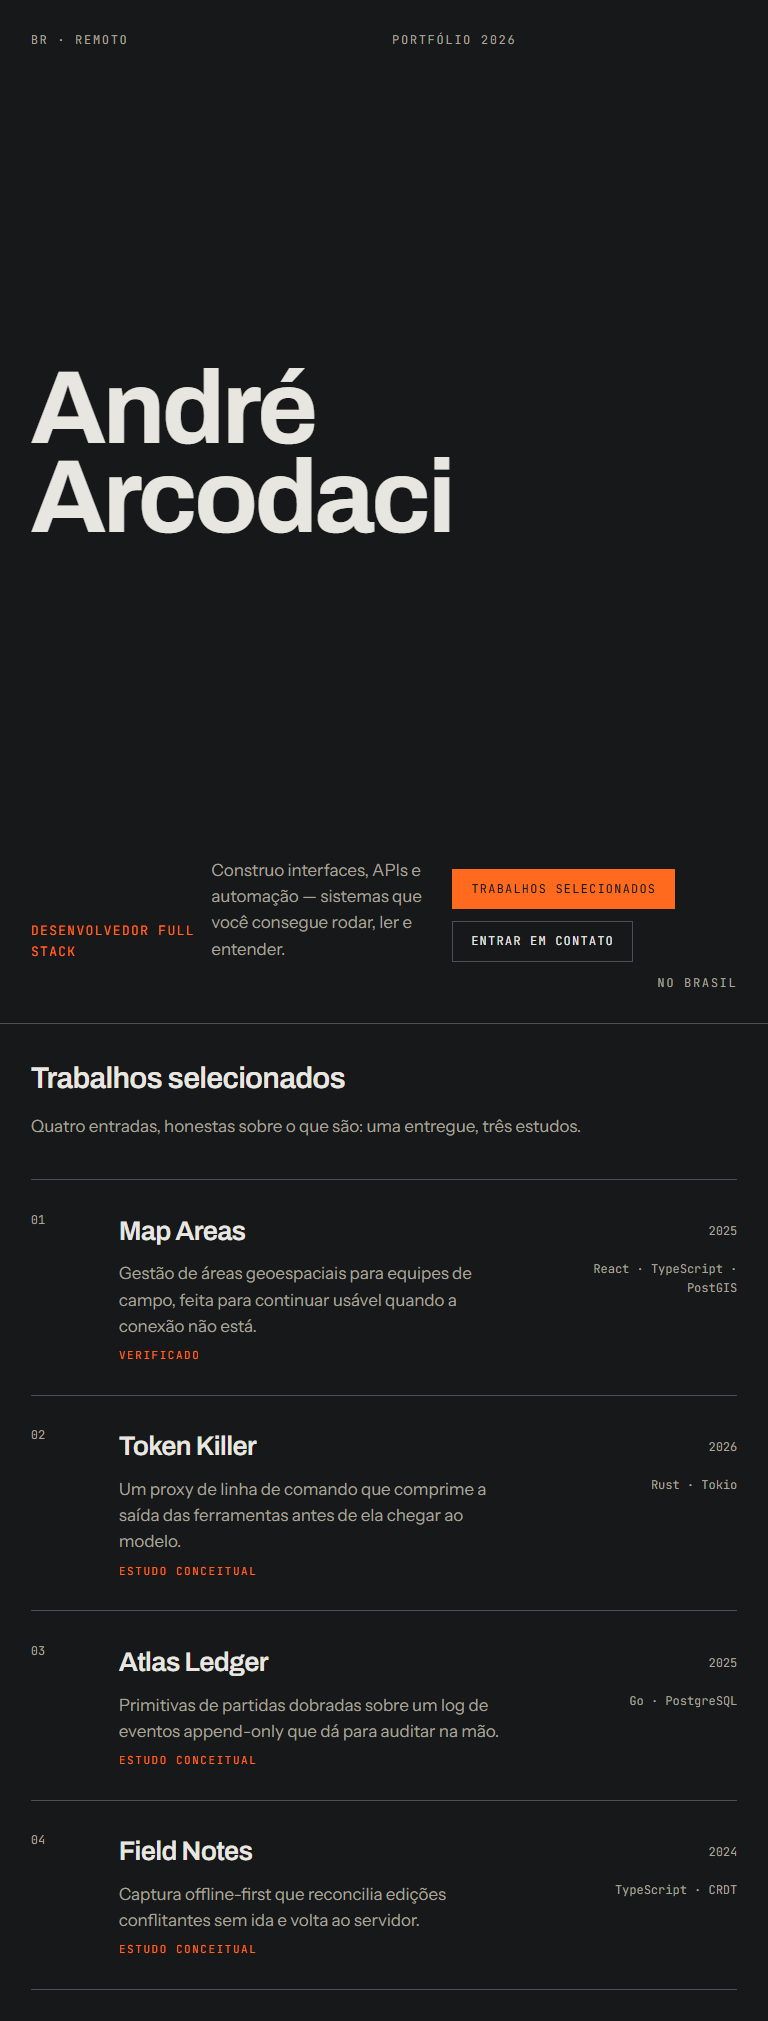
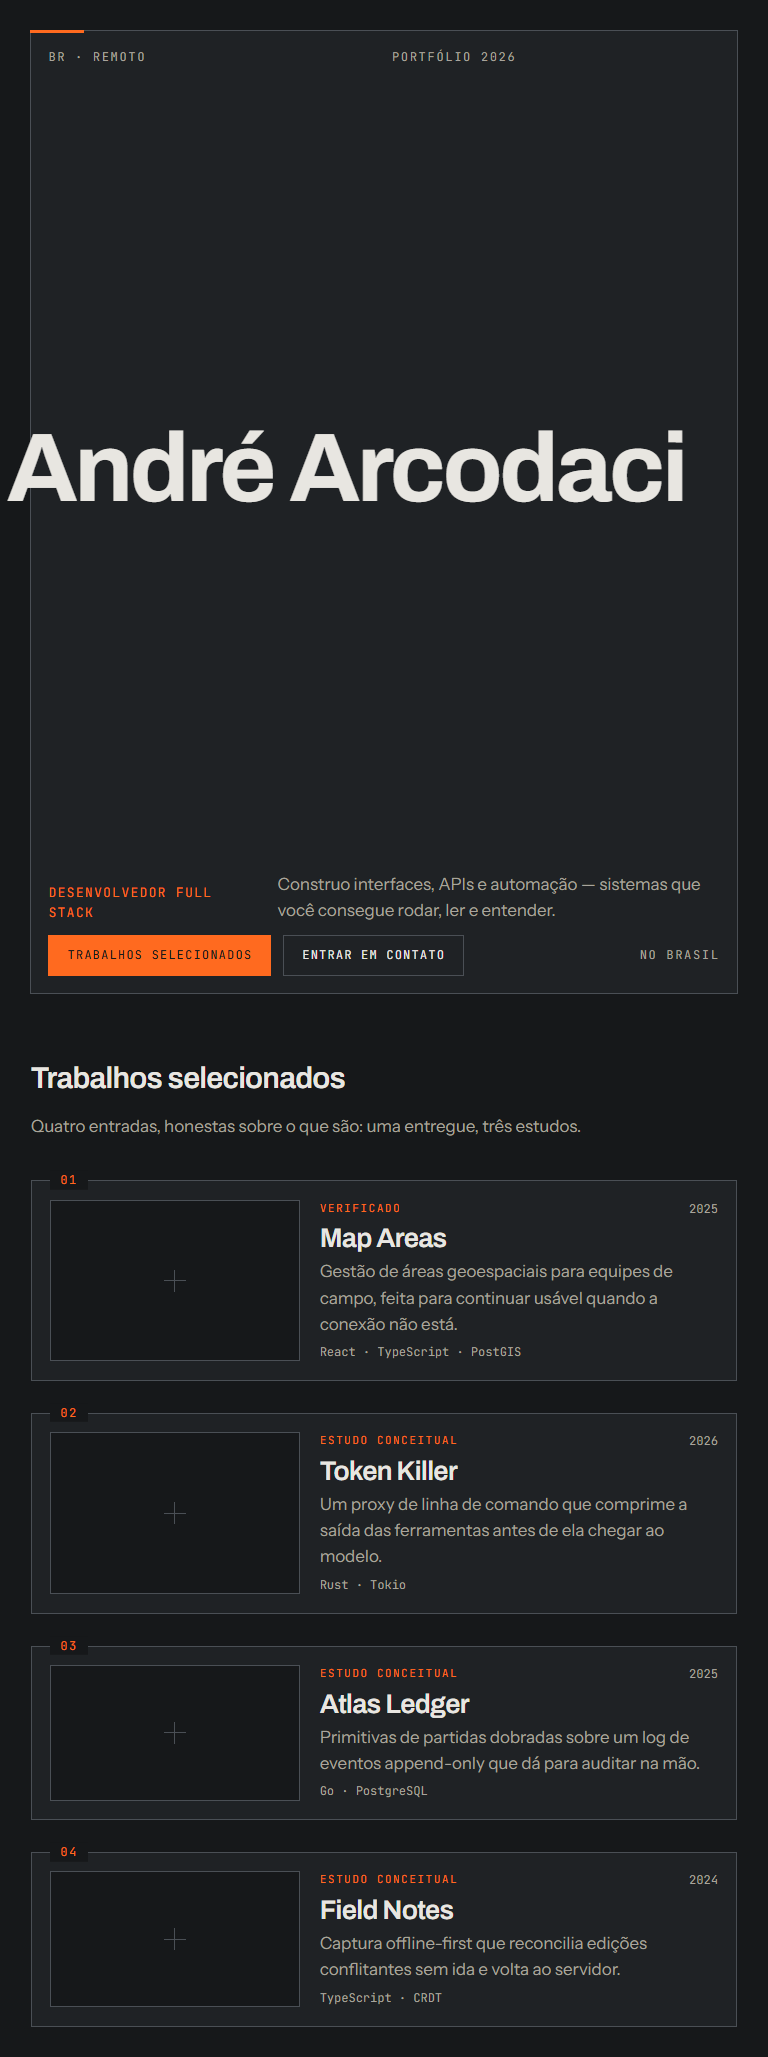
docs: acertar READMEs, lista de desmonte e as 18 capturas
F6: o README afirmava que no comp 01 o nome sangra a moldura esquerda, mas o
gesto era um no-op matematico num elemento sem fundo nem borda. A descricao do
comp 01 foi reescrita para a composicao que existe agora, e o 02 passou a usar
a superficie que o README ja publicava.

F7: a lista de desmonte prometia apagar a pasta, as fontes perdedoras e a
entrada em tsconfig.app.json. Faltavam playwright.comps.config.ts, os scripts
comps e comps:capture, o exclude em vite.config.ts e o que F1 mexeu nos dois
tsconfigs. Todos entraram.

F3: a secao de contraste passa a registrar o modo plano, o que ele nao mede e
os valores do pior caso iluminado medidos a mao -- 5,61:1 no centro da luz do
hero, 5,90:1 no topo do gradiente da placa.

M1: a linha do dossie sobre molduras que pedem imagem virou verdade; a tabela
de comparacao ganhou a linha de composicao dos trabalhos, que e onde os tres
comps agora se separam.

M2: as linhas de paleta do comp 02 no plano estavam na paleta creme original;
o codigo entrega manila ha varios commits.

M6: o limite da varredura de static.test.ts esta registrado no proprio teste.

As 18 capturas foram regravadas com pnpm comps:capture depois da recomposicao.

diff --git a/design/comps/static.test.ts b/design/comps/static.test.ts
@@ -11,6 +11,14 @@ const COMPS_DIR = join(process.cwd(), 'design', 'comps')
 const FORBIDDEN = /(^|[\s;{])(-[a-z]+-)?(animation|transition)(-[a-z-]+)?\s*:/
 
 describe('comps são estáticos', () => {
+  /**
+   * Limites conhecidos desta varredura, para quem ler depois não achar que a
+   * cobertura é total: ela olha só `design/comps/*.css`. Fica de fora o
+   * `<style>` inline de `index.html`, qualquer CSS em subdiretório, e
+   * `el.style.animation` atribuído por JS. A trava complementar está em
+   * `checks/comps.spec.ts`, que roda `document.getAnimations()` na página
+   * montada e pega o que escapar daqui.
+   */
   const files = readdirSync(COMPS_DIR).filter((name) => name.endsWith('.css'))
 
   it('encontra ao menos um CSS de comp', () => {

diff --git a/design/comps/README.md b/design/comps/README.md
@@ -4,8 +4,19 @@ Três composições estáticas do primeiro viewport para decidir D1 (metáfora
 visual) e D2 (paleta e tipografia). Mesma copy nos três, servida por
 `content.ts`, para que a comparação isole a composição.
 
-Esta pasta é apagada ao fim da Fase 2, junto com as `devDependencies` de fontes
-perdedoras e a entrada `design/comps` em `tsconfig.app.json`.
+Esta pasta é apagada ao fim da Fase 2. O desmonte não é só apagar a pasta —
+estas edições permanentes no repositório saem junto:
+
+- as `devDependencies` de fontes perdedoras em `package.json`;
+- os scripts `comps` e `comps:capture` em `package.json`;
+- `playwright.comps.config.ts`;
+- o exclude `'**/design/comps/checks/**'` em `vite.config.ts`;
+- a entrada `design/comps` no `"include"` e o `"exclude"` de
+  `design/comps/static.test.ts` em `tsconfig.app.json`;
+- a entrada `design/comps/static.test.ts` no `"include"` de
+  `tsconfig.node.json`;
+- as 18 capturas e o `README.md` de `docs/gate-1/`, se a decisão já estiver
+  registrada em `docs/DESIGN_DECISIONS.md`.
 
 ## Como ver
 
@@ -15,35 +26,44 @@ pnpm dev
 ```
 
 `?locale=pt` troca o idioma. `?chrome=0` esconde a barra de desenvolvimento.
+`?flat=1` liga o modo plano — ver a seção de contraste.
 
 ## Como verificar
 
 ```bash
-pnpm comps
+pnpm comps          # só as verificações; não escreve nada na árvore
+pnpm comps:capture  # regrava as 18 capturas em docs/gate-1/
 ```
 
-Roda, para os três comps × três viewports × dois idiomas: ausência de overflow
-horizontal, ausência de animação declarada, contraste WCAG AA. Também regrava
-as capturas em `docs/gate-1/`.
+`pnpm comps` roda, para os três comps × três viewports × dois idiomas:
+ausência de overflow horizontal no documento **e em cada `[data-region]`**,
+ausência de animação declarada, carregamento efetivo da tipografia display de
+cada comp, e contraste WCAG AA sem nenhum par deixado por medir.
 
 ## O que cada comp propõe
 
 ### 01 — Inspection Slot
 
-Bancada de inspeção. Superfície escura com recortes emoldurados; o nome sangra
-a moldura esquerda; os projetos são gavetas numeradas.
+Bancada de inspeção. O hero é uma abertura emoldurada recortada na chapa, e o
+nome atravessa a moldura até a borda da página. Cada projeto é apresentado
+dentro da sua própria abertura: moldura visível, interior em `--surface`, um
+recorte escuro com marca de registro esperando a mídia, e o número cravado na
+moldura como etiqueta. Em 1200px as aberturas viram duas colunas e a seção se
+lê como folha de contato.
 
 - **Paleta:** `#16181A` fundo · `#1F2225` superfície · `#E8E6E1` tinta ·
   `#A8A49C` tinta suave · `#4A4F55` filete · `#FF6A1F` acento
 - **Tipografia:** Archivo Variable · Instrument Sans Variable · JetBrains Mono Variable
 - **Na Fase 3 se moveria:** a moldura do recorte se abriria no hover de cada
-  gaveta, revelando a mídia do projeto por trás; o número da gaveta deslizaria
-  junto. Nada disso está implementado aqui.
+  abertura, revelando a mídia do projeto por trás; a etiqueta numerada
+  deslizaria junto. Nada disso está implementado aqui.
 
 ### 02 — Editorial Rolodex
 
-Arquivo editorial. Papel tipo manila, margem larga, medida curta; hero puramente
-tipográfico; projetos como lâminas de índice com o número recuado na margem.
+Arquivo editorial. Papel tipo manila, margem larga, medida curta; hero
+puramente tipográfico; projetos como lâminas de índice com o número recuado na
+margem. A folha de índice usa `--surface`, um papel mais claro que a capa:
+passar do hero para os trabalhos é virar a página.
 
 - **Paleta:** `#E8DCC0` fundo · `#F2EAD6` superfície · `#16130F` tinta ·
   `#5A534A` tinta suave · `#A89771` filete · `#A32114` acento
@@ -68,3 +88,24 @@ como placas suspensas, deslocadas alternadamente, com luz de borda.
 
 Todos os pares de texto foram medidos e passam WCAG AA (≥ 4.5:1 para corpo).
 Cor nova só entra depois de medida — `pnpm comps` falha se não passar.
+
+**Modo plano (`?flat=1`).** O axe não sabe compor um gradiente com o que está
+atrás e devolve o nó como `incomplete` em vez de medi-lo. Antes disso o comp 03
+passava no portão de contraste com 0 violations e **os 32 nós de texto por
+medir**. Sob `?flat=1` o harness marca o documento com `data-flat` e cada comp
+troca as suas camadas de gradiente pela cor sólida de base; o spec então exige
+`violations` **e** `incomplete` vazios. O modo plano existe só para a trava: as
+capturas do dossiê e a visualização normal continuam com os gradientes.
+
+**O que o modo plano não mede, medido à mão.** As camadas de luz do comp 03
+clareiam o fundo sob o texto, e o pior caso é sempre o ponto mais claro:
+
+| camada | fundo efetivo | tinta suave `#949CA6` | tinta `#F0F2F5` |
+|---|---|---|---|
+| centro do `radial-gradient` do hero, `rgb(175 199 255 / 14%)` sobre `#08090B` | `#1F242D` | 5,61:1 | 13,89:1 |
+| topo do `linear-gradient` da placa, `rgb(175 199 255 / 6%)` sobre `#121519` | `#1B2027` | 5,90:1 | 14,60:1 |
+| superfície sólida da placa (o que o modo plano mede) | `#121519` | 6,60:1 | 16,32:1 |
+| fundo puro | `#08090B` | 7,18:1 | 17,76:1 |
+
+Ou seja: a luz reduz o contraste, mas o pior par iluminado continua em 5,61:1,
+acima do mínimo de 4,5:1 para corpo. A camada de luz foi medida, não contornada.

diff --git a/docs/superpowers/plans/2026-10-26-fase-0-comps-comparativos.md b/docs/superpowers/plans/2026-10-26-fase-0-comps-comparativos.md
@@ -1278,7 +1278,7 @@ Create `design/comps/02-editorial-rolodex.html` — idêntico ao Comp 01, com qu
 
 **Conceito — Arquivo editorial / Rolodex.** Papel, não tela. A página é uma folha quente com margem larga e uma coluna de medida curta, como um frontispício de revista. O hero é tipográfico puro: o nome em serifa de alto contraste com eixo óptico, sem imagem nenhuma. Os projetos são **lâminas** empilhadas com borda superior marcada e um número de ficha recuado na margem — a leitura é de índice, não de grade. A assinatura é o vermelho de arquivo usado só em etiqueta e numeração.
 
-**Paleta (medida, passa AA):** fundo `#F2EEE6`, superfície `#FBF9F5`, tinta `#16130F` (16.00:1), tinta suave `#5A534A` (6.55:1), filete `#B9AD98`, acento `#A32114` (6.52:1).
+**Paleta (medida, passa AA):** fundo `#E8DCC0`, superfície `#F2EAD6`, tinta `#16130F` (13.60:1 sobre o fundo, 15.44:1 sobre a superfície), tinta suave `#5A534A` (5.57:1 / 6.32:1), filete `#A89771`, acento `#A32114` (5.54:1 / 6.29:1). *(Atualizado na onda de correção: o plano documentava a paleta creme original; o código entrega manila, e é a manila que está nos dois READMEs e nas capturas.)*
 
 **Tipografia:** Fraunces Variable no display (serifa com `opsz`, ganha personalidade em tamanho grande sem perder legibilidade), Instrument Sans no corpo, Geist Mono nos metadados.
 
@@ -2092,8 +2092,8 @@ a moldura esquerda; os projetos são gavetas numeradas.
 Arquivo editorial. Papel quente, margem larga, medida curta; hero puramente
 tipográfico; projetos como lâminas de índice com o número recuado na margem.
 
-- **Paleta:** `#F2EEE6` fundo · `#FBF9F5` superfície · `#16130F` tinta ·
-  `#5A534A` tinta suave · `#B9AD98` filete · `#A32114` acento
+- **Paleta:** `#E8DCC0` fundo · `#F2EAD6` superfície · `#16130F` tinta ·
+  `#5A534A` tinta suave · `#A89771` filete · `#A32114` acento
 - **Tipografia:** Fraunces Variable · Instrument Sans Variable · Geist Mono Variable
 - **Na Fase 3 se moveria:** as lâminas se separariam verticalmente na entrada em
   viewport, como fichas folheadas; o eixo óptico da Fraunces mudaria com o

diff --git a/docs/gate-1/README.md b/docs/gate-1/README.md
@@ -34,16 +34,18 @@ As capturas abaixo são o registro da decisão, em `<comp>-<viewport>-<locale>.p
 | | 01 Inspection Slot | 02 Editorial Rolodex | 03 Spatial Gallery |
 |---|---|---|---|
 | Base | Escura, metálica | Clara, papel | Escura, luz |
+| Composição dos trabalhos | Folha de contato: aberturas emolduradas, duas por linha | Pilha de lâminas de índice, filete entre elas | Placas suspensas, deslocadas alternadamente |
 | Display | Archivo | Fraunces | Syne |
 | Acento | Âmbar industrial `#FF6A1F` | Vermelho de arquivo `#A32114` | Luz fria `#AFC7FF` |
-| Depende de mídia | Média — as molduras pedem imagem | Baixa — é tipográfico | Alta — as placas pedem mídia |
+| Depende de mídia | Média — cada abertura tem um recorte vazio esperando imagem | Baixa — é tipográfico | Alta — as placas pedem mídia |
 | Escala com muitos projetos | Boa | Muito boa | Média |
 | Risco | Virar "industrial genérico" | Parecer sóbrio demais, perto do atual | Luz e profundidade custam caro em motion |
 
 ## Capturas
 
-As 18 imagens desta pasta são geradas por `pnpm comps` e regravadas a cada
-execução. Não edite à mão.
+As 18 imagens desta pasta são geradas por `pnpm comps:capture` e regravadas a
+cada execução. Não edite à mão. `pnpm comps` roda só as verificações e não
+escreve nada aqui.
 
 ## Decisão
 
